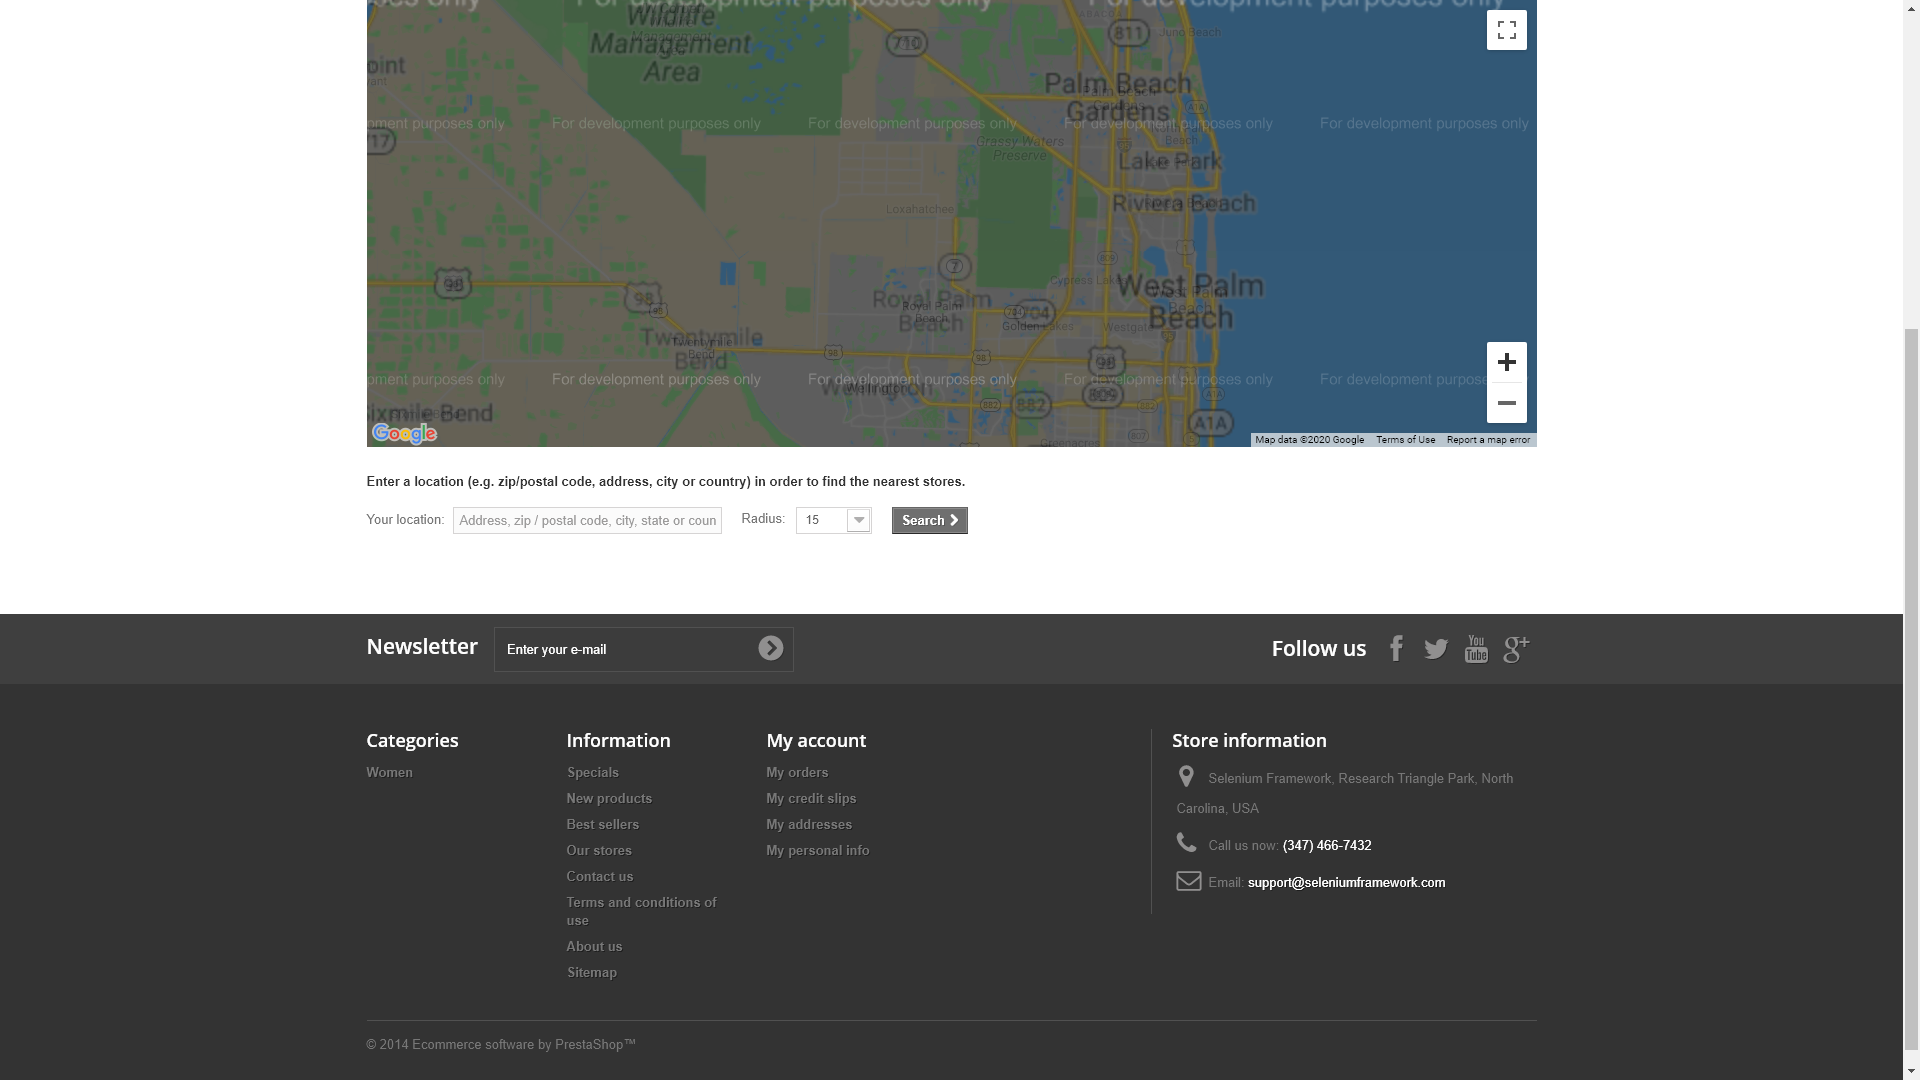
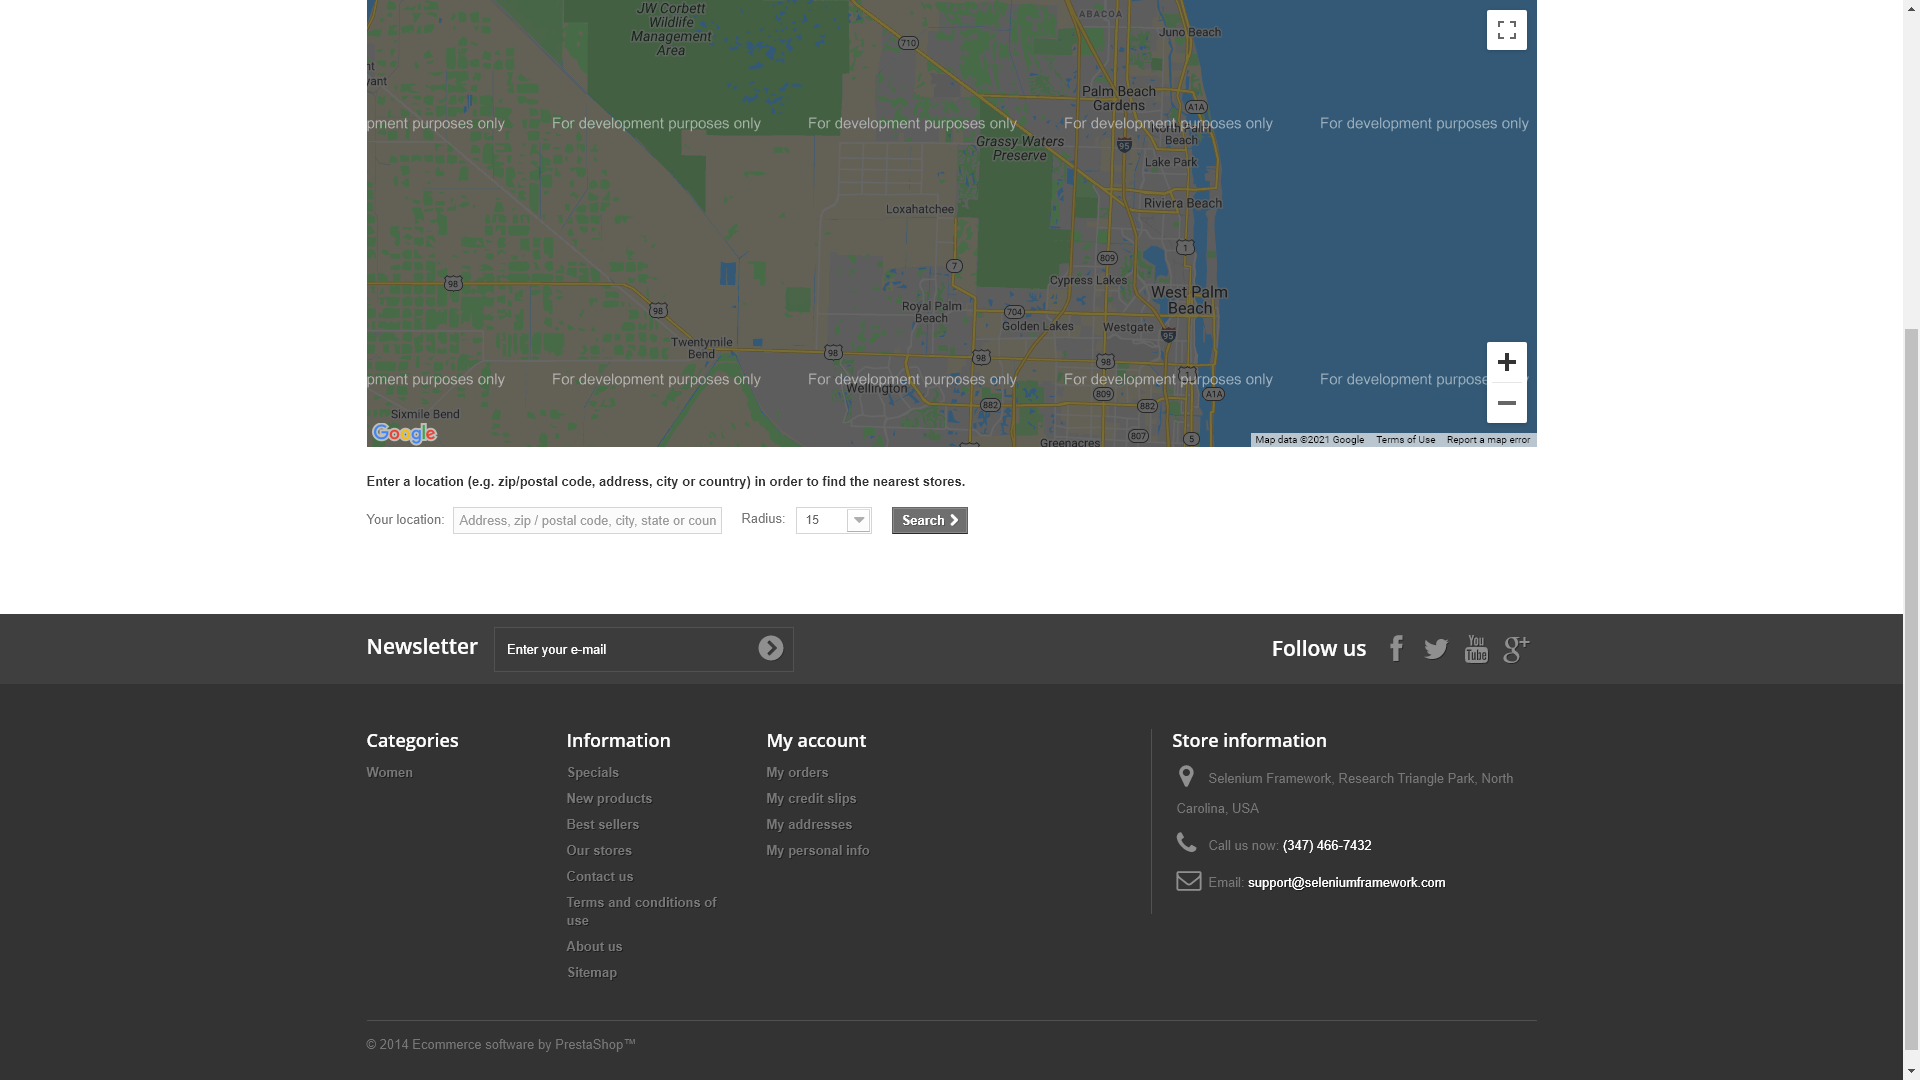
Updated the function names. Added additional step in our stores functionality to make it more reliable.

diff --git a/src/test/java/stepdefinitions/StoresSteps.java b/src/test/java/stepdefinitions/StoresSteps.java
@@ -15,8 +15,8 @@ public class StoresSteps {
         this.storesPageActions = storesPageActions;
     }
 
-    @Then("I should be able to scroll the map to see store near {string}")
-    public void iShouldBeAbleToScrollTheMapToSeeStore(String location) throws InterruptedException {
+    @Then("I should be able to scroll the map to see store near West Palm Beach")
+    public void iShouldBeAbleToScrollTheMapToSeeStore() throws InterruptedException {
         storesPageActions.scrollToLocationInMap();
     }
 

diff --git a/src/test/java/actions/StoresPageActions.java b/src/test/java/actions/StoresPageActions.java
@@ -30,6 +30,7 @@ public class StoresPageActions {
                 storesPageElements.mapElement);
         Actions actions = new Actions(driver);
         wait.until(ExpectedConditions.elementToBeClickable(storesPageElements.mapElement));
+        storesPageElements.mapElement.click();
         actions.click(storesPageElements.mapElement).
                 sendKeys(Keys.PAGE_UP, Keys.PAGE_UP).perform();
         wait.until(ExpectedConditions.elementToBeClickable(storesPageElements.mapZoomInButton));

diff --git a/src/test/java/stepdefinitions/ShoppingCartSteps.java b/src/test/java/stepdefinitions/ShoppingCartSteps.java
@@ -46,7 +46,7 @@ public class ShoppingCartSteps {
     }
 
 
-    @Then("Banner displays the message {string}")
+    @And("Banner displays the message {string}")
     public void bannerDisplaysTheMessage(String expectedBannerMessage) {
         Assert.assertEquals("Banner message not displayed correctly",
                 expectedBannerMessage, shoppingCartPageActions.getBannerMessage());
